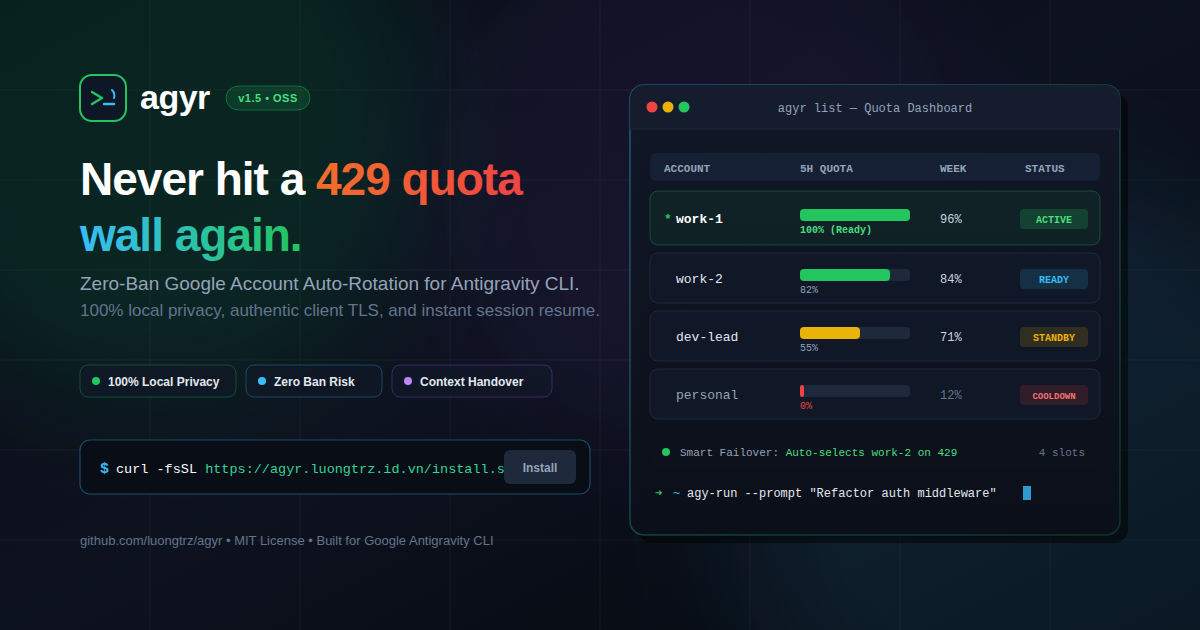
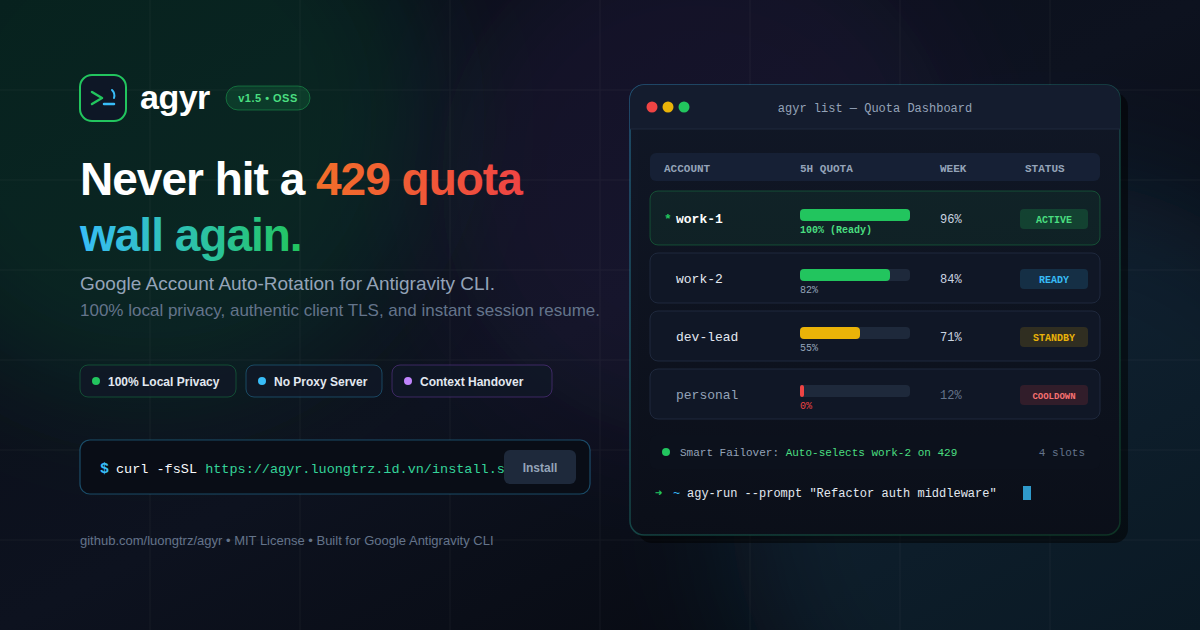
fix(copy): replace the zero-ban-risk claims with a description of how agyr works
The site promised 'zero ban risk' / 'no ban risk' in the hero, a feature card, the comparison table, the FAQ, the featureList JSON-LD, the web manifest and the Open Graph image. Whether Google bans an account for using several accounts is outside agyr's control, so an absolute promise is not defensible.

Hero: dropped 'no ban risk'. Feature card 'Zero-Ban Risk Architecture' is now 'Official Binary, No Proxy'. The comparison row 'Account Ban Risk' is now 'Request Origin / What Google sees' and no longer asserts a residential IP or accuses proxies of fake fingerprints (it says they can carry proxy-generated signatures and shared IPs depending on deployment). Comparison intro no longer says proxies 'risk account flags'.

FAQ 'Can Google ban my accounts for using agyr?': the answer is now 'We cannot promise that', explains that agyr only swaps which saved account's token the official agy binary uses, and tells readers to check Google's terms. The FAQPage JSON-LD is regenerated from the rendered answer so structured data still matches the visible text.

index.html featureList, site.webmanifest and og-image.svg lose the 'Zero-Ban' wording (the pill now says 'No Proxy Server'); og-image.png is re-rendered from the SVG.

Changed region(s): [[0.0617, 0.4222, 0.4625, 0.4825], [0.2158, 0.6032, 0.3083, 0.6333]]

diff --git a/src/components/features/data.tsx b/src/components/features/data.tsx
@@ -23,13 +23,13 @@ export const uspItems: UspItem[] = [
     ],
   },
   {
-    id: 'zero-ban-risk',
-    title: 'Zero-Ban Risk Architecture',
+    id: 'official-binary',
+    title: 'Official Binary, No Proxy',
     description: (
       <>
-        Unlike reverse-proxy tools that get flagged by Google for datacenter IPs and forged TLS
-        signatures, <InlineCode>agyr</InlineCode> directly invokes the official{' '}
-        <InlineCode>agy</InlineCode> binary from your machine.
+        Unlike proxy-based tools that route requests through another server,{' '}
+        <InlineCode>agyr</InlineCode> directly invokes the official <InlineCode>agy</InlineCode>{' '}
+        binary from your machine and only swaps which account it signs in with.
       </>
     ),
     points: [
@@ -78,16 +78,16 @@ export const comparisonRows: ComparisonRow[] = [
     },
   },
   {
-    id: 'ban-risk',
-    title: 'Account Ban Risk',
-    subtitle: 'Google anti-harvesting detection',
+    id: 'request-origin',
+    title: 'Request Origin',
+    subtitle: 'What Google sees',
     agyr: {
       description:
-        'Authentic Google CLI binary, real client TLS fingerprints, and genuine residential IP.',
+        'Requests come from the official agy binary with its normal TLS fingerprint, from your own machine and network.',
     },
     proxy: {
       description:
-        'Fake TLS fingerprints, cloud/datacenter IP blacklists, and abnormal API call sequences.',
+        'Requests can carry a proxy-generated TLS signature and may come from shared or datacenter IPs, depending on deployment.',
     },
   },
   {

diff --git a/index.html b/index.html
@@ -83,7 +83,7 @@
         },
         "featureList": [
           "100% Local & Privacy-First (OAuth tokens stay chmod 600 or in OS Credential Manager)",
-          "Zero-Ban Risk Architecture (native CLI binary execution with authentic client TLS fingerprints)",
+          "Runs the official agy binary directly with no proxy, using the normal client TLS fingerprint",
           "Seamless Auto-Rotation on HTTP 429 with automatic conversation resume",
           "Real-time Quota Dashboard with multi-account parallel measurement",
           "AI Agent Orchestration Skill for Claude Code, Antigravity, and Gemini agents"
@@ -102,7 +102,7 @@
         "name": "Can Google ban my accounts for using agyr?",
         "acceptedAnswer": {
           "@type": "Answer",
-          "text": "No. Unlike proxy routers (which route traffic through custom servers with forged headers and cloud IPs), agyr is a local authentication swapper. It runs Google's official agy binary directly on your machine. To Google's servers, it looks identical to logging in and out of different accounts manually."
+          "text": "We cannot promise that. Unlike proxy routers (which send traffic through another server), agyr is a local authentication swapper. It runs Google's official agy binary directly on your machine and only changes which saved account's token agy uses, the same as signing out and back in by hand. Whether Google allows several accounts depends on its terms for your plan, so read them before you rely on rotation."
         }
       },
       {

diff --git a/src/components/Faq.tsx b/src/components/Faq.tsx
@@ -14,7 +14,7 @@ const FAQ_ITEMS: FaqItemData[] = [
     question: 'Can Google ban my accounts for using agyr?',
     answer: (
       <p>
-        No. Unlike proxy routers (which route traffic through custom servers with forged headers and cloud IPs),{' '}
+        We cannot promise that. Unlike proxy routers (which send traffic through another server),{' '}
         <code className="rounded border border-white/10 bg-white/5 px-1.5 py-0.5 font-mono text-xs sm:text-sm text-ink">
           agyr
         </code>{' '}
@@ -22,8 +22,12 @@ const FAQ_ITEMS: FaqItemData[] = [
         <code className="rounded border border-white/10 bg-white/5 px-1.5 py-0.5 font-mono text-xs sm:text-sm text-ink">
           agy
         </code>{' '}
-        binary directly on your machine. To Google&apos;s servers, it looks identical to logging in and
-        out of different accounts manually.
+        binary directly on your machine and only changes which saved account&apos;s token{' '}
+        <code className="rounded border border-white/10 bg-white/5 px-1.5 py-0.5 font-mono text-xs sm:text-sm text-ink">
+          agy
+        </code>{' '}
+        uses, the same as signing out and back in by hand. Whether Google allows several accounts
+        depends on its terms for your plan, so read them before you rely on rotation.
       </p>
     ),
   },

diff --git a/src/components/Comparison.tsx b/src/components/Comparison.tsx
@@ -12,8 +12,8 @@ export default function Comparison() {
               Native CLI swapper vs proxy routers
             </h2>
             <p className="mt-3 text-base sm:text-lg text-muted leading-relaxed">
-              Why proxy architectures (like <InlineCode>9router</InlineCode> or MITM daemons) risk
-              account flags, and how <InlineCode>agyr</InlineCode> solves rotation cleanly at the
+              How proxy architectures (like <InlineCode>9router</InlineCode> or MITM daemons) differ
+              from a local swapper like <InlineCode>agyr</InlineCode>, which rotates accounts at the
               process level.{' '}
               <a
                 href="/agyr-vs-proxy-routers/"

diff --git a/src/components/Hero.tsx b/src/components/Hero.tsx
@@ -14,7 +14,7 @@ export default function Hero() {
             </h1>
 
             <p className="mt-4 text-base sm:text-lg text-muted leading-relaxed">
-              agyr rotates multiple Google accounts for official agy automatically. Pure Bash swapper with no proxy servers, no ban risk, real-time quota inspection, and conversation resume.
+              agyr rotates multiple Google accounts for official agy automatically. Pure Bash swapper with no proxy servers, real-time quota inspection, and conversation resume.
             </p>
 
             <div className="mt-6 w-full">
